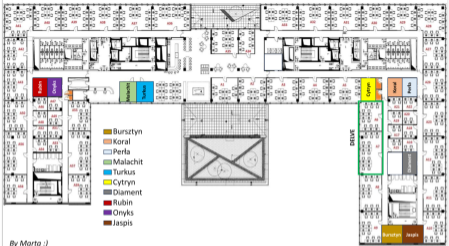
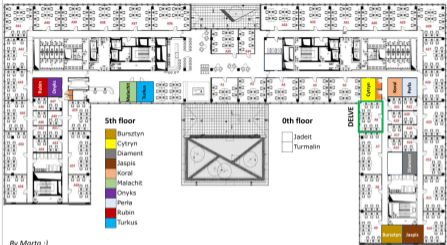
adding custom rooms and new map

Changed region(s): [[0.0, 0.0, 1.0, 1.0], [0.0, 0.9714, 0.1163, 1.0], [0.0291, 0.2571, 0.0582, 0.2857]]

diff --git a/app/00_variables.js b/app/00_variables.js
@@ -2,8 +2,9 @@ const USER_EMAIL = Session.getEffectiveUser().getEmail()
 
 /** Nexudus API variables */
 const API_ENDPOINT = 'https://warszawalixa.spaces.nexudus.com/en'
-const EXCLUDED_RESOURCES = [1415077508,1415074972,1415074973,1415179579,1415179478]
-// const EXCLUDED_RESOURCES = []
+// const EXCLUDED_RESOURCES = [1415077508,1415074972,1415074973,1415179579,1415179478]
+const EXCLUDED_RESOURCES = []
+const USE_OWN_ROOM_LIST = true  // Defined in OFFICE_ROOMS below
 
 /** Google Calendar variables */
 const PRIMARY_CALENDAR = 'primary'
@@ -12,7 +13,7 @@ const PRIMARY_CALENDAR = 'primary'
 const PRIMARY_BUTTON_LINK = 'https://workspace.google.com/marketplace/app/room_booking/375198058937'
 const NEXUDUS_LOCAL_WEBSITE = 'https://warszawalixa.spaces.nexudus.com'
 const NEXUDUS_CALENDAR = `${NEXUDUS_LOCAL_WEBSITE}/bookings/calendar`
-const OFFICE_MAP = "https://drive.google.com/file/d/1CmEWRw0SkgGf7UTCmtBwxHwpWDOTDAfn/preview"
+const OFFICE_MAP = "https://drive.google.com/file/d/1Am91VuLxPFYGyD_oTD3q8kzIBAVVh-SI/preview"
 const OFFICE_MINI_MAP = "https://raw.githubusercontent.com/podymniak/nexudus-booking/refs/heads/main/mapa_pokoi_v3_mini.png"
 const TEA_BREAK_LOGO = "https://raw.githubusercontent.com/podymniak/podymniak.github.io/refs/heads/main/images/_teaBreakColorInverted.png_"
 // TODO make small logo
@@ -23,3 +24,24 @@ const TEA_BREAK_LOGO = "https://raw.githubusercontent.com/podymniak/podymniak.gi
 const ACCESS_TOKEN_NAME = 'ACCESS_TOKEN'
 const PASSWORD_NAME = 'PASSWORD'
 const COWORKER_ID_NAME = 'COWORKER_ID'
+
+/** Office-specific rooms */
+const OFFICE_ROOMS = {
+    'Koral': 1415074866,
+    'Turkus': 1415074870,
+    'Diament': 1415074968,
+    '⚠ Jadeit (0th floor)': 1415074972,
+    '⚠ Turmalin (0th floor)': 1415074973,
+    'Bursztyn': 1415163151,
+    'Perła': 1415074867,
+    'Malachit': 1415074869,
+    'Cytryn': 1415074872,
+    'Rubin': 1415074969,
+    'Onyks': 1415074970,
+    'Chillout': 1415077508,
+    'Jaspis': 1415074971,
+}
+
+const OFFICE_ROOMS_BY_ID = Object.fromEntries(
+    Object.entries(OFFICE_ROOMS).map(([name, id]) => [id, name])
+)

diff --git a/app/02_addon.js b/app/02_addon.js
@@ -83,9 +83,13 @@ function listMyFutureBookings() {
     for (let i in myBookings) {
         const bookingId = myBookings[i].Id
 
-        myFutureBookings[bookingId] = `📅 ${myBookings[i].FromTime.split('T')[0]} 
-            🕒 ${myBookings[i].FromTime.split('T')[1].slice(0, 5)}-${myBookings[i].ToTime.split('T')[1].slice(0, 5)} 
-            ${myBookings[i].ResourceName}`
+        const roomName = USE_OWN_ROOM_LIST
+            ? OFFICE_ROOMS_BY_ID[myBookings[i].ResourceId] ?? myBookings[i].ResourceName
+            : myBookings[i].ResourceName
+
+        myFutureBookings[bookingId] = `📅 ${myBookings[i].FromTime.split('T')[0]}
+            🕒 ${myBookings[i].FromTime.split('T')[1].slice(0, 5)}-${myBookings[i].ToTime.split('T')[1].slice(0, 5)}
+            ${roomName}`
     }
 
     // console.log(JSON.stringify(myFutureBookings, " ", 4))
@@ -106,7 +110,8 @@ const getBookingCalendar = (
     const api = new Book ()
 
     const bookings = api.getBookingCalendar(startTime, endTime)
-    const resources = getRooms(api)
+    const resources = USE_OWN_ROOM_LIST ? OFFICE_ROOMS : getRooms(api)
+    // console.log('resources', resources)
 
     const eventStartTime = new Date(startTime)
     const eventEndTime = new Date(endTime)
@@ -135,7 +140,7 @@ const getBookingCalendar = (
  * Excludes resource IDs defined in EXCLUDED_RESOURCES
  * https://developers.nexudus.com/reference/search-resources
  */
-function getRooms(api) {
+function getRooms(api = new Book ()) {
     const response = api.getAllResources()
     const resources = response.Resources
 
@@ -146,6 +151,7 @@ function getRooms(api) {
         }
     }
 
+    console.log(rooms)
     return rooms
 }
 
